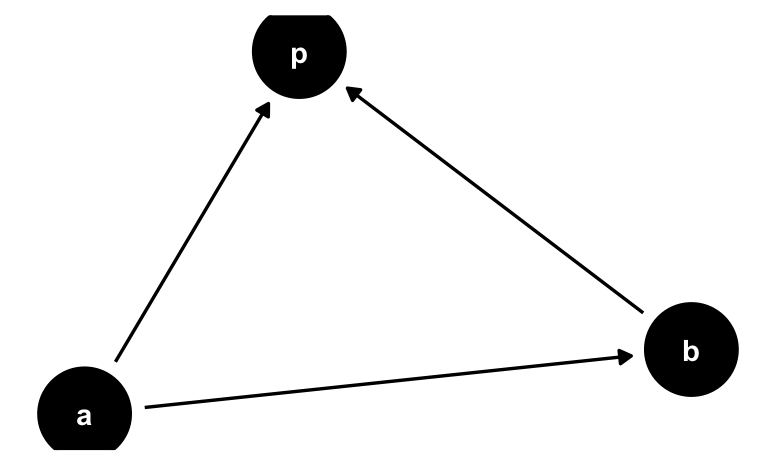
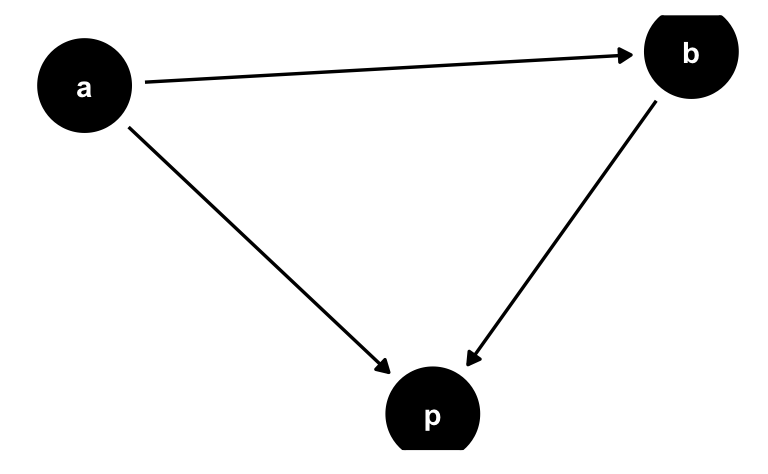
add daigram to kausal-bedrooms1

diff --git a/_site/posts/kausal-bedrooms1/kausal-bedrooms1.html b/_site/posts/kausal-bedrooms1/kausal-bedrooms1.html
@@ -218,7 +218,16 @@ pre > code.sourceCode > span > a:first-child::before { text-decoration: underlin
 <li>Berechnen Sie den <em>direkten</em> Effekt der <em>Wohnfläche</em> auf den <em>Preis</em>!</li>
 <li>Berechnen Sie den <em>totalen</em> Effekt der Wohnfläche auf den Preis!</li>
 </ol>
-<p>Hinweise: - Mit <em>direkter</em> Effekt ist der kausale Effekt von UV auf AV - ohne Zwischenglieder (Mediatoren) - gemeint. - Mit <em>indirekter</em> Effekt ist der kausale Effekt von UV über einen (oder ggf. mehrere) Mediator(en) auf die AV gemeint. - Mit <em>totaler</em> Effekt ist die Summe des direkten plus des oder der indirekten Effekte gemeint. - Geben Sie jeweils den Punktschätzer eines linearen Regressionsmodells an! - Gehen Sie vom oben genannten DAG aus. - Runden Sie ohne Dezimalstellen.</p>
+<p>Mit <em>direkter</em> Effekt ist der kausale Effekt von UV auf AV - ohne Zwischenglieder (Mediatoren) - gemeint. Mit <em>indirekter</em> Effekt ist der kausale Effekt von UV über einen (oder ggf. mehrere) Mediator(en) auf die AV gemeint. Mit <em>totaler</em> Effekt ist die Summe des direkten plus des oder der indirekten Effekte gemeint.</p>
+<p>Das folgende Diagramm verdeutlicht diese drei Arten von Kausal-Effekten.</p>
+<p><img src="mediation.jpg" class="img-fluid"></p>
+<p>(CC-BY-SA, 3275Sartell, <a href="mediation.jpg">Wikipedia</a>)</p>
+<p>Hinweise:</p>
+<ul>
+<li>Geben Sie jeweils den Punktschätzer eines linearen Regressionsmodells an!</li>
+<li>Gehen Sie vom oben genannten DAG aus.</li>
+<li>Runden Sie ohne Dezimalstellen.</li>
+</ul>
 <p><br> <br> <br> <br> <br> <br> <br> <br> <br> <br></p>
 </section>
 <section id="solution" class="level1">
@@ -240,7 +249,7 @@ pre > code.sourceCode > span > a:first-child::before { text-decoration: underlin
 <span id="cb5-5"><a href="#cb5-5" aria-hidden="true" tabindex="-1"></a><span class="fu">coef</span>(direkter_eff_lm)</span></code><button title="Copy to Clipboard" class="code-copy-button"><i class="bi"></i></button></pre></div>
 <div class="cell-output cell-output-stdout">
 <pre><code>(Intercept)    bedrooms  livingArea 
- 36707.4241 -14196.7848    125.3731 </code></pre>
+ 36657.2918 -14205.7482    125.3559 </code></pre>
 </div>
 </div>
 <p>Um einen direkten Effekt zu berechnen, müssen wir den <em>spezifischen</em>, uniquen Effekt der UV berechnen. Das erreichen wir durch eine multiple Regression, in der also die übrigen Prädiktoren aufgenommen sind. Das Resultat ist ein Koeffizient für die Assoziation der UV mit der AV, bereinigt um die Zusammenhänge der übrigen Prädiktoren.</p>
@@ -263,7 +272,7 @@ pre > code.sourceCode > span > a:first-child::before { text-decoration: underlin
 <div class="cell">
 <div class="cell-output cell-output-stdout">
 <pre><code>(Intercept)  livingArea 
- 13560.8614    113.1013 </code></pre>
+ 13504.9835    113.0787 </code></pre>
 </div>
 </div>
 <p>Der totale Effekt lässt sich berechnen, in dem man keine weiteren Prädiktoren neben der UV in die Regression mitaufnimmt. Die <em>einfache</em> (univariate) Regression zeigt den totalen Effekt der UV auf die AV.</p>
@@ -814,110 +823,122 @@ window.document.addEventListener("DOMContentLoaded", function (event) {
 <span id="cb11-79"><a href="#cb11-79" aria-hidden="true" tabindex="-1"></a>a) Berechnen Sie den *direkten* Effekt der *Wohnfläche* auf den *Preis*! </span>
 <span id="cb11-80"><a href="#cb11-80" aria-hidden="true" tabindex="-1"></a>b) Berechnen Sie den *totalen* Effekt der Wohnfläche auf den Preis!</span>
 <span id="cb11-81"><a href="#cb11-81" aria-hidden="true" tabindex="-1"></a></span>
-<span id="cb11-82"><a href="#cb11-82" aria-hidden="true" tabindex="-1"></a>Hinweise:</span>
-<span id="cb11-83"><a href="#cb11-83" aria-hidden="true" tabindex="-1"></a><span class="ss">- </span>Mit *direkter* Effekt ist der kausale Effekt von UV auf AV - ohne Zwischenglieder (Mediatoren) - gemeint.</span>
-<span id="cb11-84"><a href="#cb11-84" aria-hidden="true" tabindex="-1"></a><span class="ss">- </span>Mit *indirekter* Effekt ist der kausale Effekt von UV über einen (oder ggf. mehrere) Mediator(en) auf die AV gemeint.</span>
-<span id="cb11-85"><a href="#cb11-85" aria-hidden="true" tabindex="-1"></a><span class="ss">- </span>Mit *totaler* Effekt ist die Summe des direkten plus des oder der indirekten Effekte gemeint.</span>
-<span id="cb11-86"><a href="#cb11-86" aria-hidden="true" tabindex="-1"></a><span class="ss">- </span>Geben Sie jeweils den Punktschätzer eines linearen Regressionsmodells an!</span>
-<span id="cb11-87"><a href="#cb11-87" aria-hidden="true" tabindex="-1"></a><span class="ss">- </span>Gehen Sie vom oben genannten DAG aus.</span>
-<span id="cb11-88"><a href="#cb11-88" aria-hidden="true" tabindex="-1"></a><span class="ss">- </span>Runden Sie ohne Dezimalstellen.</span>
+<span id="cb11-82"><a href="#cb11-82" aria-hidden="true" tabindex="-1"></a></span>
+<span id="cb11-83"><a href="#cb11-83" aria-hidden="true" tabindex="-1"></a></span>
+<span id="cb11-84"><a href="#cb11-84" aria-hidden="true" tabindex="-1"></a>Mit *direkter* Effekt ist der kausale Effekt von UV auf AV - ohne Zwischenglieder (Mediatoren) - gemeint.</span>
+<span id="cb11-85"><a href="#cb11-85" aria-hidden="true" tabindex="-1"></a>Mit *indirekter* Effekt ist der kausale Effekt von UV über einen (oder ggf. mehrere) Mediator(en) auf die AV gemeint.</span>
+<span id="cb11-86"><a href="#cb11-86" aria-hidden="true" tabindex="-1"></a>Mit *totaler* Effekt ist die Summe des direkten plus des oder der indirekten Effekte gemeint.</span>
+<span id="cb11-87"><a href="#cb11-87" aria-hidden="true" tabindex="-1"></a></span>
+<span id="cb11-88"><a href="#cb11-88" aria-hidden="true" tabindex="-1"></a>Das folgende Diagramm verdeutlicht diese drei Arten von Kausal-Effekten.</span>
 <span id="cb11-89"><a href="#cb11-89" aria-hidden="true" tabindex="-1"></a></span>
 <span id="cb11-90"><a href="#cb11-90" aria-hidden="true" tabindex="-1"></a></span>
-<span id="cb11-91"><a href="#cb11-91" aria-hidden="true" tabindex="-1"></a></span>
-<span id="cb11-92"><a href="#cb11-92" aria-hidden="true" tabindex="-1"></a>&lt;/br&gt;</span>
-<span id="cb11-93"><a href="#cb11-93" aria-hidden="true" tabindex="-1"></a>&lt;/br&gt;</span>
-<span id="cb11-94"><a href="#cb11-94" aria-hidden="true" tabindex="-1"></a>&lt;/br&gt;</span>
-<span id="cb11-95"><a href="#cb11-95" aria-hidden="true" tabindex="-1"></a>&lt;/br&gt;</span>
-<span id="cb11-96"><a href="#cb11-96" aria-hidden="true" tabindex="-1"></a>&lt;/br&gt;</span>
-<span id="cb11-97"><a href="#cb11-97" aria-hidden="true" tabindex="-1"></a>&lt;/br&gt;</span>
-<span id="cb11-98"><a href="#cb11-98" aria-hidden="true" tabindex="-1"></a>&lt;/br&gt;</span>
-<span id="cb11-99"><a href="#cb11-99" aria-hidden="true" tabindex="-1"></a>&lt;/br&gt;</span>
-<span id="cb11-100"><a href="#cb11-100" aria-hidden="true" tabindex="-1"></a>&lt;/br&gt;</span>
-<span id="cb11-101"><a href="#cb11-101" aria-hidden="true" tabindex="-1"></a>&lt;/br&gt;</span>
+<span id="cb11-91"><a href="#cb11-91" aria-hidden="true" tabindex="-1"></a><span class="al">![](mediation.jpg)</span></span>
+<span id="cb11-92"><a href="#cb11-92" aria-hidden="true" tabindex="-1"></a></span>
+<span id="cb11-93"><a href="#cb11-93" aria-hidden="true" tabindex="-1"></a></span>
+<span id="cb11-94"><a href="#cb11-94" aria-hidden="true" tabindex="-1"></a>(CC-BY-SA, 3275Sartell, <span class="co">[</span><span class="ot">Wikipedia</span><span class="co">](mediation.jpg)</span>)</span>
+<span id="cb11-95"><a href="#cb11-95" aria-hidden="true" tabindex="-1"></a></span>
+<span id="cb11-96"><a href="#cb11-96" aria-hidden="true" tabindex="-1"></a>Hinweise:</span>
+<span id="cb11-97"><a href="#cb11-97" aria-hidden="true" tabindex="-1"></a></span>
+<span id="cb11-98"><a href="#cb11-98" aria-hidden="true" tabindex="-1"></a><span class="ss">- </span>Geben Sie jeweils den Punktschätzer eines linearen Regressionsmodells an!</span>
+<span id="cb11-99"><a href="#cb11-99" aria-hidden="true" tabindex="-1"></a><span class="ss">- </span>Gehen Sie vom oben genannten DAG aus.</span>
+<span id="cb11-100"><a href="#cb11-100" aria-hidden="true" tabindex="-1"></a><span class="ss">- </span>Runden Sie ohne Dezimalstellen.</span>
+<span id="cb11-101"><a href="#cb11-101" aria-hidden="true" tabindex="-1"></a></span>
 <span id="cb11-102"><a href="#cb11-102" aria-hidden="true" tabindex="-1"></a></span>
-<span id="cb11-103"><a href="#cb11-103" aria-hidden="true" tabindex="-1"></a><span class="fu"># Solution</span></span>
-<span id="cb11-104"><a href="#cb11-104" aria-hidden="true" tabindex="-1"></a></span>
-<span id="cb11-105"><a href="#cb11-105" aria-hidden="true" tabindex="-1"></a><span class="in">```{r echo = TRUE}</span></span>
-<span id="cb11-106"><a href="#cb11-106" aria-hidden="true" tabindex="-1"></a><span class="in">d &lt;-</span></span>
-<span id="cb11-107"><a href="#cb11-107" aria-hidden="true" tabindex="-1"></a><span class="in">  SaratogaHouses %&gt;% </span></span>
-<span id="cb11-108"><a href="#cb11-108" aria-hidden="true" tabindex="-1"></a><span class="in">  select(price, bedrooms, livingArea) %&gt;% </span></span>
-<span id="cb11-109"><a href="#cb11-109" aria-hidden="true" tabindex="-1"></a><span class="in">  drop_na()</span></span>
-<span id="cb11-110"><a href="#cb11-110" aria-hidden="true" tabindex="-1"></a><span class="in">```</span></span>
-<span id="cb11-111"><a href="#cb11-111" aria-hidden="true" tabindex="-1"></a></span>
-<span id="cb11-112"><a href="#cb11-112" aria-hidden="true" tabindex="-1"></a></span>
-<span id="cb11-113"><a href="#cb11-113" aria-hidden="true" tabindex="-1"></a>a) direkter Effekt:</span>
+<span id="cb11-103"><a href="#cb11-103" aria-hidden="true" tabindex="-1"></a></span>
+<span id="cb11-104"><a href="#cb11-104" aria-hidden="true" tabindex="-1"></a>&lt;/br&gt;</span>
+<span id="cb11-105"><a href="#cb11-105" aria-hidden="true" tabindex="-1"></a>&lt;/br&gt;</span>
+<span id="cb11-106"><a href="#cb11-106" aria-hidden="true" tabindex="-1"></a>&lt;/br&gt;</span>
+<span id="cb11-107"><a href="#cb11-107" aria-hidden="true" tabindex="-1"></a>&lt;/br&gt;</span>
+<span id="cb11-108"><a href="#cb11-108" aria-hidden="true" tabindex="-1"></a>&lt;/br&gt;</span>
+<span id="cb11-109"><a href="#cb11-109" aria-hidden="true" tabindex="-1"></a>&lt;/br&gt;</span>
+<span id="cb11-110"><a href="#cb11-110" aria-hidden="true" tabindex="-1"></a>&lt;/br&gt;</span>
+<span id="cb11-111"><a href="#cb11-111" aria-hidden="true" tabindex="-1"></a>&lt;/br&gt;</span>
+<span id="cb11-112"><a href="#cb11-112" aria-hidden="true" tabindex="-1"></a>&lt;/br&gt;</span>
+<span id="cb11-113"><a href="#cb11-113" aria-hidden="true" tabindex="-1"></a>&lt;/br&gt;</span>
 <span id="cb11-114"><a href="#cb11-114" aria-hidden="true" tabindex="-1"></a></span>
-<span id="cb11-115"><a href="#cb11-115" aria-hidden="true" tabindex="-1"></a><span class="in">```{r echo = TRUE}</span></span>
-<span id="cb11-116"><a href="#cb11-116" aria-hidden="true" tabindex="-1"></a><span class="in">direkter_eff_lm &lt;-</span></span>
-<span id="cb11-117"><a href="#cb11-117" aria-hidden="true" tabindex="-1"></a><span class="in">  stan_glm(price ~ bedrooms + livingArea, </span></span>
-<span id="cb11-118"><a href="#cb11-118" aria-hidden="true" tabindex="-1"></a><span class="in">           data = d,</span></span>
-<span id="cb11-119"><a href="#cb11-119" aria-hidden="true" tabindex="-1"></a><span class="in">           refresh = 0)</span></span>
-<span id="cb11-120"><a href="#cb11-120" aria-hidden="true" tabindex="-1"></a><span class="in">coef(direkter_eff_lm)</span></span>
-<span id="cb11-121"><a href="#cb11-121" aria-hidden="true" tabindex="-1"></a><span class="in">```</span></span>
-<span id="cb11-122"><a href="#cb11-122" aria-hidden="true" tabindex="-1"></a></span>
+<span id="cb11-115"><a href="#cb11-115" aria-hidden="true" tabindex="-1"></a><span class="fu"># Solution</span></span>
+<span id="cb11-116"><a href="#cb11-116" aria-hidden="true" tabindex="-1"></a></span>
+<span id="cb11-117"><a href="#cb11-117" aria-hidden="true" tabindex="-1"></a><span class="in">```{r echo = TRUE}</span></span>
+<span id="cb11-118"><a href="#cb11-118" aria-hidden="true" tabindex="-1"></a><span class="in">d &lt;-</span></span>
+<span id="cb11-119"><a href="#cb11-119" aria-hidden="true" tabindex="-1"></a><span class="in">  SaratogaHouses %&gt;% </span></span>
+<span id="cb11-120"><a href="#cb11-120" aria-hidden="true" tabindex="-1"></a><span class="in">  select(price, bedrooms, livingArea) %&gt;% </span></span>
+<span id="cb11-121"><a href="#cb11-121" aria-hidden="true" tabindex="-1"></a><span class="in">  drop_na()</span></span>
+<span id="cb11-122"><a href="#cb11-122" aria-hidden="true" tabindex="-1"></a><span class="in">```</span></span>
 <span id="cb11-123"><a href="#cb11-123" aria-hidden="true" tabindex="-1"></a></span>
-<span id="cb11-124"><a href="#cb11-124" aria-hidden="true" tabindex="-1"></a>Um einen direkten Effekt zu berechnen, müssen wir den *spezifischen*, </span>
-<span id="cb11-125"><a href="#cb11-125" aria-hidden="true" tabindex="-1"></a>uniquen Effekt der UV berechnen.</span>
-<span id="cb11-126"><a href="#cb11-126" aria-hidden="true" tabindex="-1"></a>Das erreichen wir durch eine multiple Regression,</span>
-<span id="cb11-127"><a href="#cb11-127" aria-hidden="true" tabindex="-1"></a>in der also die übrigen Prädiktoren aufgenommen sind. </span>
-<span id="cb11-128"><a href="#cb11-128" aria-hidden="true" tabindex="-1"></a>Das Resultat ist ein Koeffizient für die Assoziation der UV mit der AV,</span>
-<span id="cb11-129"><a href="#cb11-129" aria-hidden="true" tabindex="-1"></a>bereinigt um die Zusammenhänge der übrigen Prädiktoren.</span>
-<span id="cb11-130"><a href="#cb11-130" aria-hidden="true" tabindex="-1"></a></span>
-<span id="cb11-131"><a href="#cb11-131" aria-hidden="true" tabindex="-1"></a>Zur Erinnerung: Die multiple Regression liefert Koeffizienten pro Prädiktor,</span>
-<span id="cb11-132"><a href="#cb11-132" aria-hidden="true" tabindex="-1"></a>die bereinigt sind um den (statistischen) Einfluss der anderen Prädiktoren,</span>
-<span id="cb11-133"><a href="#cb11-133" aria-hidden="true" tabindex="-1"></a>mit anderne Worten: die Koeffizienten der multiplen Regression zeigen den Effekt</span>
-<span id="cb11-134"><a href="#cb11-134" aria-hidden="true" tabindex="-1"></a>von "nur diesem Prädiktor".</span>
+<span id="cb11-124"><a href="#cb11-124" aria-hidden="true" tabindex="-1"></a></span>
+<span id="cb11-125"><a href="#cb11-125" aria-hidden="true" tabindex="-1"></a>a) direkter Effekt:</span>
+<span id="cb11-126"><a href="#cb11-126" aria-hidden="true" tabindex="-1"></a></span>
+<span id="cb11-127"><a href="#cb11-127" aria-hidden="true" tabindex="-1"></a><span class="in">```{r echo = TRUE}</span></span>
+<span id="cb11-128"><a href="#cb11-128" aria-hidden="true" tabindex="-1"></a><span class="in">direkter_eff_lm &lt;-</span></span>
+<span id="cb11-129"><a href="#cb11-129" aria-hidden="true" tabindex="-1"></a><span class="in">  stan_glm(price ~ bedrooms + livingArea, </span></span>
+<span id="cb11-130"><a href="#cb11-130" aria-hidden="true" tabindex="-1"></a><span class="in">           data = d,</span></span>
+<span id="cb11-131"><a href="#cb11-131" aria-hidden="true" tabindex="-1"></a><span class="in">           refresh = 0)</span></span>
+<span id="cb11-132"><a href="#cb11-132" aria-hidden="true" tabindex="-1"></a><span class="in">coef(direkter_eff_lm)</span></span>
+<span id="cb11-133"><a href="#cb11-133" aria-hidden="true" tabindex="-1"></a><span class="in">```</span></span>
+<span id="cb11-134"><a href="#cb11-134" aria-hidden="true" tabindex="-1"></a></span>
 <span id="cb11-135"><a href="#cb11-135" aria-hidden="true" tabindex="-1"></a></span>
-<span id="cb11-136"><a href="#cb11-136" aria-hidden="true" tabindex="-1"></a></span>
-<span id="cb11-137"><a href="#cb11-137" aria-hidden="true" tabindex="-1"></a></span>
-<span id="cb11-138"><a href="#cb11-138" aria-hidden="true" tabindex="-1"></a>Der Punktschätzer für den direkten Effekt (von Wohnfläche) ist:</span>
-<span id="cb11-139"><a href="#cb11-139" aria-hidden="true" tabindex="-1"></a></span>
-<span id="cb11-140"><a href="#cb11-140" aria-hidden="true" tabindex="-1"></a><span class="in">```{r echo=TRUE}</span></span>
-<span id="cb11-141"><a href="#cb11-141" aria-hidden="true" tabindex="-1"></a><span class="in">direkter_eff &lt;-</span></span>
-<span id="cb11-142"><a href="#cb11-142" aria-hidden="true" tabindex="-1"></a><span class="in">  coef(direkter_eff_lm)[3] %&gt;% </span></span>
-<span id="cb11-143"><a href="#cb11-143" aria-hidden="true" tabindex="-1"></a><span class="in">  round(0)</span></span>
-<span id="cb11-144"><a href="#cb11-144" aria-hidden="true" tabindex="-1"></a></span>
-<span id="cb11-145"><a href="#cb11-145" aria-hidden="true" tabindex="-1"></a><span class="in">direkter_eff</span></span>
-<span id="cb11-146"><a href="#cb11-146" aria-hidden="true" tabindex="-1"></a><span class="in">```</span></span>
+<span id="cb11-136"><a href="#cb11-136" aria-hidden="true" tabindex="-1"></a>Um einen direkten Effekt zu berechnen, müssen wir den *spezifischen*, </span>
+<span id="cb11-137"><a href="#cb11-137" aria-hidden="true" tabindex="-1"></a>uniquen Effekt der UV berechnen.</span>
+<span id="cb11-138"><a href="#cb11-138" aria-hidden="true" tabindex="-1"></a>Das erreichen wir durch eine multiple Regression,</span>
+<span id="cb11-139"><a href="#cb11-139" aria-hidden="true" tabindex="-1"></a>in der also die übrigen Prädiktoren aufgenommen sind. </span>
+<span id="cb11-140"><a href="#cb11-140" aria-hidden="true" tabindex="-1"></a>Das Resultat ist ein Koeffizient für die Assoziation der UV mit der AV,</span>
+<span id="cb11-141"><a href="#cb11-141" aria-hidden="true" tabindex="-1"></a>bereinigt um die Zusammenhänge der übrigen Prädiktoren.</span>
+<span id="cb11-142"><a href="#cb11-142" aria-hidden="true" tabindex="-1"></a></span>
+<span id="cb11-143"><a href="#cb11-143" aria-hidden="true" tabindex="-1"></a>Zur Erinnerung: Die multiple Regression liefert Koeffizienten pro Prädiktor,</span>
+<span id="cb11-144"><a href="#cb11-144" aria-hidden="true" tabindex="-1"></a>die bereinigt sind um den (statistischen) Einfluss der anderen Prädiktoren,</span>
+<span id="cb11-145"><a href="#cb11-145" aria-hidden="true" tabindex="-1"></a>mit anderne Worten: die Koeffizienten der multiplen Regression zeigen den Effekt</span>
+<span id="cb11-146"><a href="#cb11-146" aria-hidden="true" tabindex="-1"></a>von "nur diesem Prädiktor".</span>
 <span id="cb11-147"><a href="#cb11-147" aria-hidden="true" tabindex="-1"></a></span>
 <span id="cb11-148"><a href="#cb11-148" aria-hidden="true" tabindex="-1"></a></span>
-<span id="cb11-149"><a href="#cb11-149" aria-hidden="true" tabindex="-1"></a>b) totaler Effekt:</span>
-<span id="cb11-150"><a href="#cb11-150" aria-hidden="true" tabindex="-1"></a></span>
-<span id="cb11-153"><a href="#cb11-153" aria-hidden="true" tabindex="-1"></a><span class="in">```{r}</span></span>
-<span id="cb11-154"><a href="#cb11-154" aria-hidden="true" tabindex="-1"></a>totaler_eff_lm <span class="ot">&lt;-</span></span>
-<span id="cb11-155"><a href="#cb11-155" aria-hidden="true" tabindex="-1"></a>  <span class="fu">stan_glm</span>(price <span class="sc">~</span> livingArea, <span class="at">data =</span> d,</span>
-<span id="cb11-156"><a href="#cb11-156" aria-hidden="true" tabindex="-1"></a>           <span class="at">refresh =</span> <span class="dv">0</span>)</span>
-<span id="cb11-157"><a href="#cb11-157" aria-hidden="true" tabindex="-1"></a><span class="fu">coef</span>(totaler_eff_lm)</span>
+<span id="cb11-149"><a href="#cb11-149" aria-hidden="true" tabindex="-1"></a></span>
+<span id="cb11-150"><a href="#cb11-150" aria-hidden="true" tabindex="-1"></a>Der Punktschätzer für den direkten Effekt (von Wohnfläche) ist:</span>
+<span id="cb11-151"><a href="#cb11-151" aria-hidden="true" tabindex="-1"></a></span>
+<span id="cb11-152"><a href="#cb11-152" aria-hidden="true" tabindex="-1"></a><span class="in">```{r echo=TRUE}</span></span>
+<span id="cb11-153"><a href="#cb11-153" aria-hidden="true" tabindex="-1"></a><span class="in">direkter_eff &lt;-</span></span>
+<span id="cb11-154"><a href="#cb11-154" aria-hidden="true" tabindex="-1"></a><span class="in">  coef(direkter_eff_lm)[3] %&gt;% </span></span>
+<span id="cb11-155"><a href="#cb11-155" aria-hidden="true" tabindex="-1"></a><span class="in">  round(0)</span></span>
+<span id="cb11-156"><a href="#cb11-156" aria-hidden="true" tabindex="-1"></a></span>
+<span id="cb11-157"><a href="#cb11-157" aria-hidden="true" tabindex="-1"></a><span class="in">direkter_eff</span></span>
 <span id="cb11-158"><a href="#cb11-158" aria-hidden="true" tabindex="-1"></a><span class="in">```</span></span>
 <span id="cb11-159"><a href="#cb11-159" aria-hidden="true" tabindex="-1"></a></span>
 <span id="cb11-160"><a href="#cb11-160" aria-hidden="true" tabindex="-1"></a></span>
-<span id="cb11-161"><a href="#cb11-161" aria-hidden="true" tabindex="-1"></a>Der totale Effekt lässt sich berechnen,</span>
-<span id="cb11-162"><a href="#cb11-162" aria-hidden="true" tabindex="-1"></a>in dem man keine weiteren Prädiktoren neben der UV in die Regression mitaufnimmt.</span>
-<span id="cb11-163"><a href="#cb11-163" aria-hidden="true" tabindex="-1"></a>Die *einfache* (univariate) Regression zeigt den totalen Effekt der UV auf die AV.</span>
-<span id="cb11-164"><a href="#cb11-164" aria-hidden="true" tabindex="-1"></a></span>
-<span id="cb11-165"><a href="#cb11-165" aria-hidden="true" tabindex="-1"></a></span>
-<span id="cb11-166"><a href="#cb11-166" aria-hidden="true" tabindex="-1"></a></span>
-<span id="cb11-167"><a href="#cb11-167" aria-hidden="true" tabindex="-1"></a></span>
-<span id="cb11-168"><a href="#cb11-168" aria-hidden="true" tabindex="-1"></a></span>
-<span id="cb11-169"><a href="#cb11-169" aria-hidden="true" tabindex="-1"></a>Der Punktschätzer für den totalen Effekt beträgt:</span>
-<span id="cb11-170"><a href="#cb11-170" aria-hidden="true" tabindex="-1"></a></span>
-<span id="cb11-173"><a href="#cb11-173" aria-hidden="true" tabindex="-1"></a><span class="in">```{r}</span></span>
-<span id="cb11-174"><a href="#cb11-174" aria-hidden="true" tabindex="-1"></a>totaler_eff <span class="ot">&lt;-</span></span>
-<span id="cb11-175"><a href="#cb11-175" aria-hidden="true" tabindex="-1"></a>  <span class="fu">coef</span>(totaler_eff_lm)[<span class="dv">2</span>] <span class="sc">%&gt;%</span> </span>
-<span id="cb11-176"><a href="#cb11-176" aria-hidden="true" tabindex="-1"></a>  <span class="fu">round</span>(<span class="dv">0</span>)</span>
+<span id="cb11-161"><a href="#cb11-161" aria-hidden="true" tabindex="-1"></a>b) totaler Effekt:</span>
+<span id="cb11-162"><a href="#cb11-162" aria-hidden="true" tabindex="-1"></a></span>
+<span id="cb11-165"><a href="#cb11-165" aria-hidden="true" tabindex="-1"></a><span class="in">```{r}</span></span>
+<span id="cb11-166"><a href="#cb11-166" aria-hidden="true" tabindex="-1"></a>totaler_eff_lm <span class="ot">&lt;-</span></span>
+<span id="cb11-167"><a href="#cb11-167" aria-hidden="true" tabindex="-1"></a>  <span class="fu">stan_glm</span>(price <span class="sc">~</span> livingArea, <span class="at">data =</span> d,</span>
+<span id="cb11-168"><a href="#cb11-168" aria-hidden="true" tabindex="-1"></a>           <span class="at">refresh =</span> <span class="dv">0</span>)</span>
+<span id="cb11-169"><a href="#cb11-169" aria-hidden="true" tabindex="-1"></a><span class="fu">coef</span>(totaler_eff_lm)</span>
+<span id="cb11-170"><a href="#cb11-170" aria-hidden="true" tabindex="-1"></a><span class="in">```</span></span>
+<span id="cb11-171"><a href="#cb11-171" aria-hidden="true" tabindex="-1"></a></span>
+<span id="cb11-172"><a href="#cb11-172" aria-hidden="true" tabindex="-1"></a></span>
+<span id="cb11-173"><a href="#cb11-173" aria-hidden="true" tabindex="-1"></a>Der totale Effekt lässt sich berechnen,</span>
+<span id="cb11-174"><a href="#cb11-174" aria-hidden="true" tabindex="-1"></a>in dem man keine weiteren Prädiktoren neben der UV in die Regression mitaufnimmt.</span>
+<span id="cb11-175"><a href="#cb11-175" aria-hidden="true" tabindex="-1"></a>Die *einfache* (univariate) Regression zeigt den totalen Effekt der UV auf die AV.</span>
+<span id="cb11-176"><a href="#cb11-176" aria-hidden="true" tabindex="-1"></a></span>
 <span id="cb11-177"><a href="#cb11-177" aria-hidden="true" tabindex="-1"></a></span>
-<span id="cb11-178"><a href="#cb11-178" aria-hidden="true" tabindex="-1"></a>totaler_eff</span>
-<span id="cb11-179"><a href="#cb11-179" aria-hidden="true" tabindex="-1"></a><span class="in">```</span></span>
+<span id="cb11-178"><a href="#cb11-178" aria-hidden="true" tabindex="-1"></a></span>
+<span id="cb11-179"><a href="#cb11-179" aria-hidden="true" tabindex="-1"></a></span>
 <span id="cb11-180"><a href="#cb11-180" aria-hidden="true" tabindex="-1"></a></span>
-<span id="cb11-181"><a href="#cb11-181" aria-hidden="true" tabindex="-1"></a></span>
+<span id="cb11-181"><a href="#cb11-181" aria-hidden="true" tabindex="-1"></a>Der Punktschätzer für den totalen Effekt beträgt:</span>
 <span id="cb11-182"><a href="#cb11-182" aria-hidden="true" tabindex="-1"></a></span>
-<span id="cb11-183"><a href="#cb11-183" aria-hidden="true" tabindex="-1"></a></span>
-<span id="cb11-184"><a href="#cb11-184" aria-hidden="true" tabindex="-1"></a>---</span>
-<span id="cb11-185"><a href="#cb11-185" aria-hidden="true" tabindex="-1"></a></span>
-<span id="cb11-186"><a href="#cb11-186" aria-hidden="true" tabindex="-1"></a>Categories: </span>
-<span id="cb11-187"><a href="#cb11-187" aria-hidden="true" tabindex="-1"></a></span>
-<span id="cb11-188"><a href="#cb11-188" aria-hidden="true" tabindex="-1"></a><span class="ss">- </span>dag</span>
-<span id="cb11-189"><a href="#cb11-189" aria-hidden="true" tabindex="-1"></a><span class="ss">- </span>causal</span>
+<span id="cb11-185"><a href="#cb11-185" aria-hidden="true" tabindex="-1"></a><span class="in">```{r}</span></span>
+<span id="cb11-186"><a href="#cb11-186" aria-hidden="true" tabindex="-1"></a>totaler_eff <span class="ot">&lt;-</span></span>
+<span id="cb11-187"><a href="#cb11-187" aria-hidden="true" tabindex="-1"></a>  <span class="fu">coef</span>(totaler_eff_lm)[<span class="dv">2</span>] <span class="sc">%&gt;%</span> </span>
+<span id="cb11-188"><a href="#cb11-188" aria-hidden="true" tabindex="-1"></a>  <span class="fu">round</span>(<span class="dv">0</span>)</span>
+<span id="cb11-189"><a href="#cb11-189" aria-hidden="true" tabindex="-1"></a></span>
+<span id="cb11-190"><a href="#cb11-190" aria-hidden="true" tabindex="-1"></a>totaler_eff</span>
+<span id="cb11-191"><a href="#cb11-191" aria-hidden="true" tabindex="-1"></a><span class="in">```</span></span>
+<span id="cb11-192"><a href="#cb11-192" aria-hidden="true" tabindex="-1"></a></span>
+<span id="cb11-193"><a href="#cb11-193" aria-hidden="true" tabindex="-1"></a></span>
+<span id="cb11-194"><a href="#cb11-194" aria-hidden="true" tabindex="-1"></a></span>
+<span id="cb11-195"><a href="#cb11-195" aria-hidden="true" tabindex="-1"></a></span>
+<span id="cb11-196"><a href="#cb11-196" aria-hidden="true" tabindex="-1"></a>---</span>
+<span id="cb11-197"><a href="#cb11-197" aria-hidden="true" tabindex="-1"></a></span>
+<span id="cb11-198"><a href="#cb11-198" aria-hidden="true" tabindex="-1"></a>Categories: </span>
+<span id="cb11-199"><a href="#cb11-199" aria-hidden="true" tabindex="-1"></a></span>
+<span id="cb11-200"><a href="#cb11-200" aria-hidden="true" tabindex="-1"></a><span class="ss">- </span>dag</span>
+<span id="cb11-201"><a href="#cb11-201" aria-hidden="true" tabindex="-1"></a><span class="ss">- </span>causal</span>
 </code><button title="Copy to Clipboard" class="code-copy-button"><i class="bi"></i></button></pre></div>
 </div></div></div></div></div>
 </div> <!-- /content -->

diff --git a/_site/index.html b/_site/index.html
@@ -2889,7 +2889,7 @@ Nov 8, 2023
 </a>
 </div>
 </div>
-<div class="quarto-post image-right" data-index="63" data-categories="R,bayes,bayesbox,num,qm2,qm2-pruefung" data-listing-date-sort="1699398000000" data-listing-file-modified-sort="1705081493351" data-listing-date-modified-sort="NaN" data-listing-reading-time-sort="3" data-listing-word-count-sort="512">
+<div class="quarto-post image-right" data-index="63" data-categories="R,bayes,bayesbox,num,qm2,qm2-pruefung" data-listing-date-sort="1699398000000" data-listing-file-modified-sort="1705081493351" data-listing-date-modified-sort="NaN" data-listing-reading-time-sort="3" data-listing-word-count-sort="444">
 <div class="thumbnail">
 <p><a href="./posts/Kaefer2/Kaefer2.html" class="no-external"></a></p><a href="./posts/Kaefer2/Kaefer2.html" class="no-external">
 <div class="listing-item-img-placeholder card-img-top" >&nbsp;</div>
@@ -3408,7 +3408,7 @@ Nov 8, 2023
 </a>
 </div>
 </div>
-<div class="quarto-post image-right" data-index="76" data-categories="quiz,probability,bayes,distribution,quiz1-qm2-ws23,schoice" data-listing-date-sort="1699398000000" data-listing-file-modified-sort="1705081628025" data-listing-date-modified-sort="NaN" data-listing-reading-time-sort="2" data-listing-word-count-sort="223">
+<div class="quarto-post image-right" data-index="76" data-categories="quiz,probability,bayes,distribution,quiz1-qm2-ws23,schoice" data-listing-date-sort="1699398000000" data-listing-file-modified-sort="1705081628025" data-listing-date-modified-sort="NaN" data-listing-reading-time-sort="2" data-listing-word-count-sort="244">
 <div class="thumbnail">
 <p><a href="./posts/wskt-quiz11/wskt-quiz11.html" class="no-external"></a></p><a href="./posts/wskt-quiz11/wskt-quiz11.html" class="no-external">
 <div class="listing-item-img-placeholder card-img-top" >&nbsp;</div>
@@ -4101,7 +4101,7 @@ Nov 8, 2023
 </a>
 </div>
 </div>
-<div class="quarto-post image-right" data-index="93" data-categories="quiz,probability,distribution,quiz1-qm2-ws23,schoice" data-listing-date-sort="1699398000000" data-listing-file-modified-sort="1705136566324" data-listing-date-modified-sort="NaN" data-listing-reading-time-sort="2" data-listing-word-count-sort="224">
+<div class="quarto-post image-right" data-index="93" data-categories="quiz,probability,distribution,quiz1-qm2-ws23,schoice" data-listing-date-sort="1699398000000" data-listing-file-modified-sort="1705136566324" data-listing-date-modified-sort="NaN" data-listing-reading-time-sort="2" data-listing-word-count-sort="236">
 <div class="thumbnail">
 <p><a href="./posts/wskt-quiz04/wskt-quiz04.html" class="no-external"></a></p><a href="./posts/wskt-quiz04/wskt-quiz04.html" class="no-external">
 <p class="card-img-top"><img data-src="posts/wskt-quiz04/unnamed-chunk-1-1.png"  class="thumbnail-image card-img"/></p>
@@ -14784,7 +14784,7 @@ Dec 19, 2022
 </a>
 </div>
 </div>
-<div class="quarto-post image-right" data-index="369" data-categories="dag,causal" data-listing-date-sort="1671404400000" data-listing-file-modified-sort="1684337013954" data-listing-date-modified-sort="NaN" data-listing-reading-time-sort="3" data-listing-word-count-sort="566">
+<div class="quarto-post image-right" data-index="369" data-categories="dag,causal" data-listing-date-sort="1671404400000" data-listing-file-modified-sort="1705327624923" data-listing-date-modified-sort="NaN" data-listing-reading-time-sort="3" data-listing-word-count-sort="565">
 <div class="thumbnail">
 <p><a href="./posts/kausal-bedrooms1/kausal-bedrooms1.html" class="no-external"></a></p><a href="./posts/kausal-bedrooms1/kausal-bedrooms1.html" class="no-external">
 <p class="card-img-top"><img data-src="posts/kausal-bedrooms1/unnamed-chunk-4-1.png"  class="thumbnail-image card-img"/></p>
@@ -16241,7 +16241,7 @@ Dec 9, 2022
 </a>
 </div>
 </div>
-<div class="quarto-post image-right" data-index="412" data-categories="regression,bayes,post" data-listing-date-sort="1670540400000" data-listing-file-modified-sort="1705315405643" data-listing-date-modified-sort="NaN" data-listing-reading-time-sort="2" data-listing-word-count-sort="358">
+<div class="quarto-post image-right" data-index="412" data-categories="regression,bayes,post" data-listing-date-sort="1670540400000" data-listing-file-modified-sort="1705315405643" data-listing-date-modified-sort="NaN" data-listing-reading-time-sort="3" data-listing-word-count-sort="512">
 <div class="thumbnail">
 <p><a href="./posts/Bed-Post-Wskt1/Bed-Post-Wskt1.html" class="no-external"></a></p><a href="./posts/Bed-Post-Wskt1/Bed-Post-Wskt1.html" class="no-external">
 <p class="card-img-top"><img data-src="posts/Bed-Post-Wskt1/unnamed-chunk-10-1.png"  class="thumbnail-image card-img"/></p>
